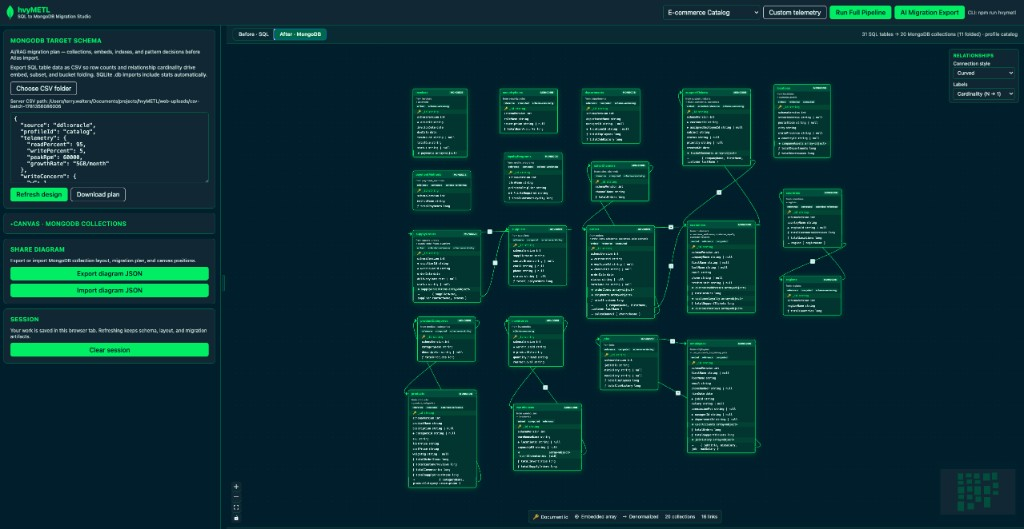
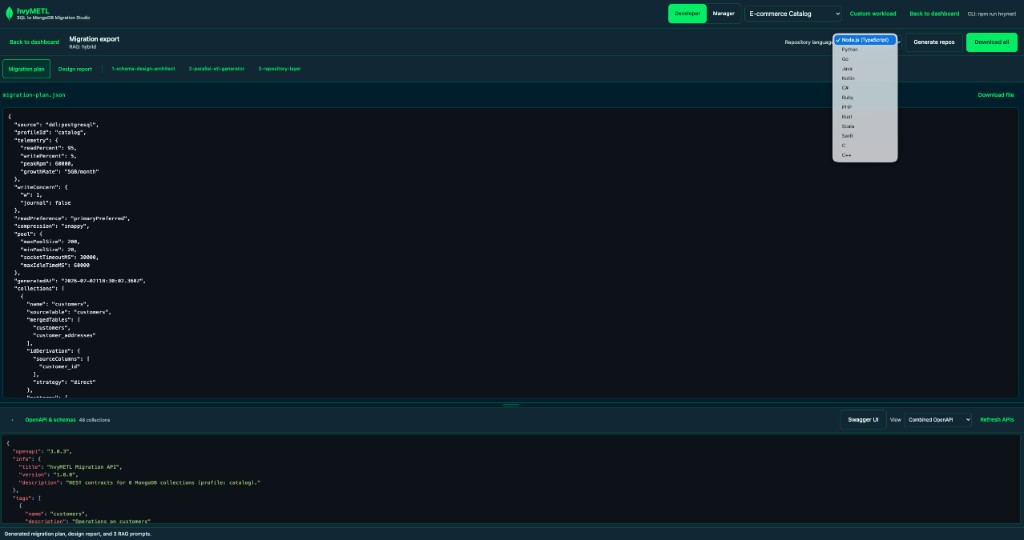
Fix mock CSV imports and refresh UI screenshots.
Generate CSVs for referenced lookup tables, avoid reusing stale mock data, and update the web and manager documentation with current Migration Studio screenshots.

diff --git a/web/src/components/PipelinePanel.tsx b/web/src/components/PipelinePanel.tsx
@@ -115,9 +115,12 @@ export function PipelinePanel({
     setCsvFiles([]);
     setCsvDirectoryLabel(null);
     setShowEnvDetails(false);
-    const noCsv = !csvSourcePath?.trim();
+    const savedCsvPath = csvSourcePath?.trim() ?? '';
+    const savedCsvIsGeneratedMock = /(?:^|[/\\])mock-csv(?:[/\\])?$/i.test(savedCsvPath);
+    const noCsv = !savedCsvPath || savedCsvIsGeneratedMock;
     setForm((prev) => ({
       ...prev,
+      csvSourcePath: savedCsvIsGeneratedMock ? '' : prev.csvSourcePath,
       generateMockCsv: noCsv ? true : prev.generateMockCsv,
     }));
     void refreshConfig();
@@ -134,7 +137,7 @@ export function PipelinePanel({
   }, [open, form.csvToAtlasPath, refreshConfig]);
 
   useEffect(() => {
-    if (csvSourcePath && open) {
+    if (csvSourcePath && open && !/(?:^|[/\\])mock-csv(?:[/\\])?$/i.test(csvSourcePath)) {
       setForm((prev) => (prev.csvSourcePath ? prev : { ...prev, csvSourcePath }));
     }
   }, [csvSourcePath, open]);
@@ -287,8 +290,10 @@ export function PipelinePanel({
           : await runPipeline(overrides, onProgress);
 
       setResult(pipelineResult);
-      if (pipelineResult.csvSourcePath) {
+      if (pipelineResult.csvSourcePath && !useMockCsv) {
         onCsvSourcePathChange(pipelineResult.csvSourcePath);
+      } else if (useMockCsv) {
+        onCsvSourcePathChange('');
       }
       onComplete(pipelineResult);
     } catch (e) {

diff --git a/src/utilities/mockCsvFromDdl.ts b/src/utilities/mockCsvFromDdl.ts
@@ -3,7 +3,7 @@
  */
 
 import { spawnSync } from 'node:child_process';
-import { existsSync, readdirSync } from 'node:fs';
+import { existsSync, readdirSync, rmSync } from 'node:fs';
 import { extname, join } from 'node:path';
 
 /** Sizing knobs passed to generators/ddl_csv_generator.py */
@@ -106,6 +106,14 @@ export function generateMockCsvFromDdl(
 
   const python = process.env.HVYMETL_PYTHON?.trim() || 'python3';
   const sizing = { ...MOCK_CSV_DEFAULTS, ...options };
+
+  if (existsSync(outputDir)) {
+    for (const name of readdirSync(outputDir)) {
+      if (extname(name).toLowerCase() === '.csv') {
+        rmSync(join(outputDir, name), { force: true });
+      }
+    }
+  }
 
   const args = [
     script,

diff --git a/generators/ddl_csv_generator.py b/generators/ddl_csv_generator.py
@@ -313,7 +313,33 @@ def parse_ddl(ddl: str) -> List[Table]:
             primary_key = [columns[0].name]
 
         tables.append(Table(name=table_name, columns=columns, primary_key=primary_key))
-    return tables
+    return ensure_referenced_tables(tables)
+
+
+def ensure_referenced_tables(tables: List[Table]) -> List[Table]:
+    """Add minimal parent CSV tables for FK targets referenced but not defined in the pasted DDL."""
+    by_name = {table.name.lower(): table for table in tables}
+    stubs: List[Table] = []
+
+    for table in tables:
+        for column in table.columns:
+            fk = column.foreign_key
+            if not fk:
+                continue
+            ref_key = fk.ref_table.lower()
+            if ref_key in by_name:
+                continue
+            pk_column = Column(
+                name=fk.ref_column,
+                sql_type=column.sql_type,
+                nullable=False,
+                is_primary=True,
+            )
+            stub = Table(name=fk.ref_table, columns=[pk_column], primary_key=[fk.ref_column])
+            by_name[ref_key] = stub
+            stubs.append(stub)
+
+    return [*tables, *stubs]
 
 
 def topological_sort_tables(tables: List[Table]) -> List[Table]:
@@ -371,10 +397,10 @@ def column_value_hint(name: str) -> Optional[str]:
         "first_name": "first_name",
         "lastname": "last_name",
         "last_name": "last_name",
+        "country": "country",
         "name": "name",
         "address": "address",
         "city": "city",
-        "country": "country",
         "zip": "postcode",
         "postal": "postcode",
         "url": "url",
@@ -407,6 +433,49 @@ def parse_string_max_length(sql_type: str) -> Optional[int]:
     if not match:
         return None
     return int(match.group(1))
+
+
+BASE62_ALPHABET = "0123456789ABCDEFGHIJKLMNOPQRSTUVWXYZabcdefghijklmnopqrstuvwxyz"
+LETTER_PREFIX_ALPHABET = "ABCDEFGHIJKLMNOPQRSTUVWXYZabcdefghijklmnopqrstuvwxyz"
+
+
+def encode_base62(value: int, min_width: int = 1) -> str:
+    """Encode a non-negative integer into compact base62 for deterministic mock keys."""
+    if value < 0:
+        raise ValueError("Base62 encoding only supports non-negative integers.")
+    if value == 0:
+        encoded = BASE62_ALPHABET[0]
+    else:
+        chars: List[str] = []
+        current = value
+        while current > 0:
+            current, remainder = divmod(current, len(BASE62_ALPHABET))
+            chars.append(BASE62_ALPHABET[remainder])
+        encoded = "".join(reversed(chars))
+    return encoded.rjust(min_width, BASE62_ALPHABET[0])
+
+
+def unique_string_primary_key(row_index: int, max_len: Optional[int]) -> str:
+    """Return a stable unique string key that still fits short CHAR/VARCHAR columns when possible."""
+    if max_len is None:
+        return f"pk_{encode_base62(row_index, 8)}"
+
+    width = max(1, max_len)
+    if width == 1:
+        if row_index < len(LETTER_PREFIX_ALPHABET):
+            return LETTER_PREFIX_ALPHABET[row_index]
+        return encode_base62(row_index)
+
+    suffix_capacity = len(BASE62_ALPHABET) ** (width - 1)
+    total_capacity = len(LETTER_PREFIX_ALPHABET) * suffix_capacity
+    if row_index < total_capacity:
+        prefix = LETTER_PREFIX_ALPHABET[row_index // suffix_capacity]
+        suffix = encode_base62(row_index % suffix_capacity, width - 1)
+        return f"{prefix}{suffix}"
+
+    # A declared key width this small cannot represent the requested row count.
+    # Prefer uniqueness over truncation so downstream MongoDB _id imports remain valid.
+    return f"{LETTER_PREFIX_ALPHABET[-1]}{encode_base62(row_index)}"
 
 
 class DataGenerator:
@@ -452,7 +521,7 @@ class DataGenerator:
             if family == "int":
                 return row_index + 1
             if family == "string":
-                return self._fit_string(col, str(self.fake.uuid4()))
+                return unique_string_primary_key(row_index, self._string_max_len(col))
             return row_index + 1
 
         if col.foreign_key:

diff --git a/web/README.md b/web/README.md
@@ -4,11 +4,11 @@ Optional MongoDB-branded web UI for visual schema design, ER diagrams, and AI-po
 migration export. The **CLI remains fully available** — every UI action uses the same
 design engine, RAG layer, and artifacts as `npm run hvymetl`.
 
-**Before · SQL** — source relational schema (Oracle E-commerce Catalog, 31 tables).
+**Before · SQL** — source relational schema with the new developer wizard sidebar.
 
 ![Before SQL ER diagram — Oracle E-commerce Catalog with 31 tables](docs/screenshots/before-sql-diagram.png)
 
-**After · MongoDB** — AI/RAG migration plan (20 collections, 11 tables folded).
+**After · MongoDB** — AI/RAG migration plan with collapsible controls and transformation summary.
 
 ![After MongoDB diagram — 31 SQL tables to 20 MongoDB collections](docs/screenshots/after-mongodb-diagram.png)
 
@@ -38,6 +38,14 @@ Set `HVYMETL_UI_PORT` in `.env` to change the API port (default `3847`).
 
 ## Screenshots
 
+### Schema import wizard
+
+Every developer workflow starts with source schema import. Paste DDL or upload a
+`.sql`, `.ddl`, `.txt`, `.db`, `.sqlite`, or `.sqlite3` file before design, cost, or
+pipeline actions.
+
+![Start with schema import modal](docs/screenshots/schema-import-modal.png)
+
 ### Before · SQL and After · MongoDB
 
 Toggle between the source SQL ER diagram and the ML/RAG-driven MongoDB target schema.
@@ -48,6 +56,26 @@ summary (e.g. `31 SQL tables → 20 MongoDB collections (11 folded)`).
 ![Before SQL ER diagram — Oracle E-commerce Catalog](docs/screenshots/before-sql-diagram.png)
 
 ![After MongoDB diagram — folded collections and pattern decisions](docs/screenshots/after-mongodb-diagram.png)
+
+### Full pipeline with mock data
+
+The pipeline dialog validates MongoDB, csvToAtlas, dialect, and mock CSV generation
+before running design → CSV shaping → Atlas import.
+
+![Run Full Pipeline dialog with mock data settings](docs/screenshots/pipeline-mock-data.png)
+
+During execution, the modal shows each pipeline stage so teams can see whether the run
+is validating, generating mock CSVs, designing, shaping, importing, reflecting, or
+persisting execution history.
+
+![Run Full Pipeline progress state](docs/screenshots/pipeline-progress.png)
+
+### Manager review and cost visibility
+
+Manager View highlights migration readiness, blocked collections, and cost-projection
+controls so business owners can review architecture and savings before cutover.
+
+![Manager dashboard showing migration review and cost projection](docs/screenshots/manager-review-cost.png)
 
 ### AI migration artifacts
 

diff --git a/docs/13-web-ui.md b/docs/13-web-ui.md
@@ -24,6 +24,20 @@ exports, same as CLI).
 
 ## 3. Features
 
+### Current UI Screenshots
+
+![Start with schema import modal](../web/docs/screenshots/schema-import-modal.png)
+
+![Before SQL ER diagram with collapsible developer sidebar](../web/docs/screenshots/before-sql-diagram.png)
+
+![Run Full Pipeline dialog with mock data settings](../web/docs/screenshots/pipeline-mock-data.png)
+
+![Run Full Pipeline progress state](../web/docs/screenshots/pipeline-progress.png)
+
+![After MongoDB target schema and transformation summary](../web/docs/screenshots/after-mongodb-diagram.png)
+
+![Manager dashboard showing migration review and cost projection](../web/docs/screenshots/manager-review-cost.png)
+
 | Feature | UI location | Backend |
 | --- | --- | --- |
 | **Instant Schema Import** | Sidebar → paste DDL → Import Query, or **Import file** (DDL auto-imports on select) | `POST /api/schema/import-ddl` |

diff --git a/docs/20-manager.md b/docs/20-manager.md
@@ -16,6 +16,8 @@ working sets, `$lookup`-heavy reads, and oversized Atlas tiers. hvyMETL analyzes
 constraints, row statistics, foreign keys, and workload telemetry, then recommends
 MongoDB-native document structures that keep hot reads local and infrastructure right-sized.
 
+![Manager dashboard showing migration review and cost projection](../web/docs/screenshots/manager-review-cost.png)
+
 ```mermaid
 flowchart LR
     SQL[(SQL schema + row stats)]